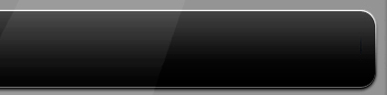
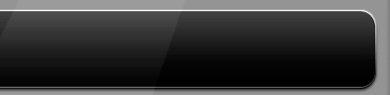
fixed a style issue

Changed region(s): [[0.9302, 0.1053, 0.9922, 0.9474]]

diff --git a/calcu.css b/calcu.css
@@ -29,9 +29,9 @@ body {
 #main #readout .inner {
 	text-align: right;
 	color: #fff;
-	font-size: 60px;
-	padding-top: 15px;
-	padding-right: 24px;
+	font-size: 85px;
+	padding-top: 26px;
+	padding-right: 45;
 }
 
 #main .calc_01 {
@@ -84,13 +84,13 @@ body {
 
 #main .calc_09 {
 	background: url('images/calcu_09.jpg');
-	width: 131px;
+	/* width: 131px; */
 	height: 144px;
 }
 
 #main .calc_10 {
 	background: url('images/calcu_10.jpg');
-	width: 580px;
+	/* width: 580px; */
 	height: 144px;
 }
 

diff --git a/calcu.html b/calcu.html
@@ -42,10 +42,10 @@
 			<div class="key calc_08"></div>
 		</td>
 		<td>
-			<div class="key calc_09" id="readout_op"></div>
+			<div class="calc_09" id="readout_op"></div>
 		</td>
 		<td colspan="4">
-			<div class="key calc_10" id="readout"></div>
+			<div class="calc_10" id="readout"></div>
 		</td>
 	</tr>
 	<tr>
